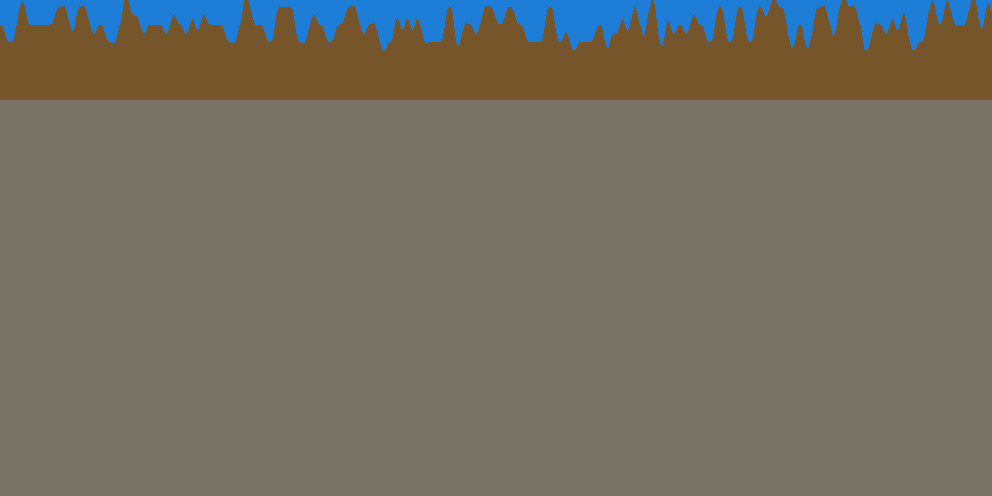
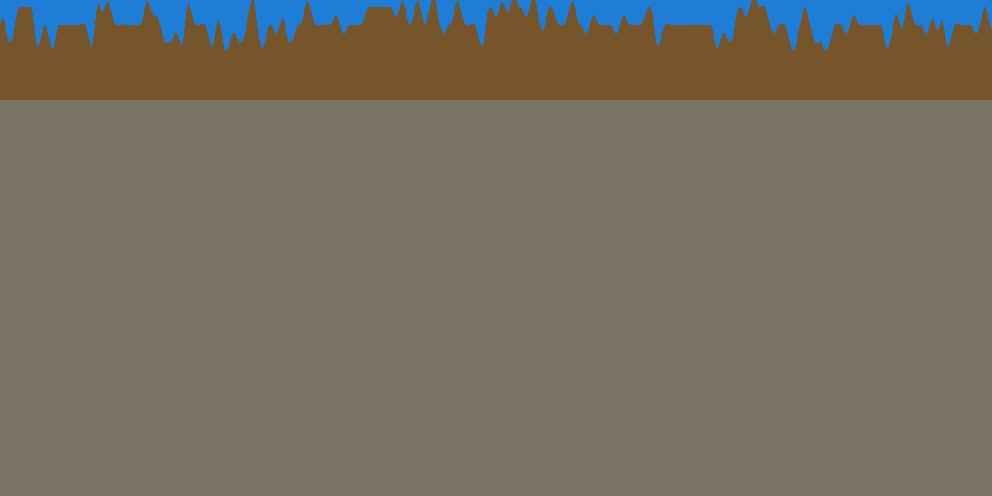
added world space mouse coordinates

Changed region(s): [[0.0, 0.0, 1.0, 0.0907]]

diff --git a/src/resources.rs b/src/resources.rs
@@ -2,7 +2,7 @@ use bevy_ecs::system::Resource;
 use slab::Slab;
 use winit::{dpi::PhysicalPosition, event::{VirtualKeyCode, ElementState}};
 
-use crate::prefabs::Prefab;
+use crate::{prefabs::Prefab, state::State, camera::Camera};
 #[derive(Resource)]
 pub struct UpdateInstance {
     pub queue: wgpu::Queue,
@@ -11,7 +11,8 @@ pub struct UpdateInstance {
 #[derive(Resource)]
 pub struct WindowEvents {
     pub keys_pressed: Vec<(VirtualKeyCode, ElementState)>,
-    pub mouse_pos: PhysicalPosition<f32>,
+    pub screen_mouse_pos: PhysicalPosition<f32>,
+    pub world_mouse_pos: PhysicalPosition<f32>,
     pub left_mouse: MouseClickType,
     pub right_mouse: MouseClickType,
     pub middle_mouse: MouseClickType,
@@ -68,6 +69,14 @@ impl WindowEvents {
             MouseClickType::Released => self.left_mouse = MouseClickType::NotHeld,
             _ => {}
         }
+    }
+    pub fn update_mouse_pos(&mut self, normalized_mouse_pos: PhysicalPosition<f32>, camera_transform: &mut Camera){
+        self.screen_mouse_pos = normalized_mouse_pos;
+        self.world_mouse_pos = PhysicalPosition::new(normalized_mouse_pos.x + camera_transform.position.x, normalized_mouse_pos.y + camera_transform.position.y);
+    }
+    pub fn update_mouse_pos_with_cam(&mut self, camera_transform: &mut Camera){
+        let normalized_mouse_pos = self.screen_mouse_pos;
+        self.world_mouse_pos = PhysicalPosition::new(normalized_mouse_pos.x + camera_transform.position.x, normalized_mouse_pos.y + camera_transform.position.y);
     }
 }
 #[derive(Resource)]

diff --git a/src/collision.rs b/src/collision.rs
@@ -3,6 +3,8 @@ use winit::dpi::PhysicalPosition;
 
 use bevy_ecs::prelude::*;
 
+use crate::prelude::Instance;
+
 #[derive(Component)]
 pub struct Box2D {
     x_max: f32,
@@ -21,12 +23,14 @@ impl Box2D {
             enabled: true
         }
     }
-    pub fn check_collision(&self, pos: &PhysicalPosition<f32>) -> bool {
-        let x = pos.x;
-        let y = pos.y;
+    pub fn check_collision(&self, pos: &PhysicalPosition<f32>, instance: &Instance) -> bool {
+        let x = pos.x + instance.position.x;
+        let y = pos.y + instance.position.y;
+        println!("max: {}, {}", self.x_max, self.y_max);
+        println!("min: {}, {}", self.x_min, self.y_min);
+        println!("{}, {}", x, y);
         if self.enabled{
             if x < self.x_max && x > self.x_min && y < self.y_max && y > self.y_min {
-                println!("collision");
                 return true;
             }
         }
@@ -57,7 +61,6 @@ impl Circle {
         let dist_y = (y - self.center_y).powi(2);
         let dist = (dist_x + dist_y).sqrt();
         if self.enabled && dist < self.radius {
-            println!("collision");
             return true;
         }
         return false;

diff --git a/src/camera.rs b/src/camera.rs
@@ -3,6 +3,7 @@ use instant::Duration;
 use wgpu::util::DeviceExt;
 use wgpu::{Device, SurfaceConfiguration, Buffer, BindGroupLayout, BindGroup};
 
+use crate::resources::WindowEvents;
 use crate::structs::CameraController;
 use crate::state::State;
 
@@ -93,6 +94,8 @@ pub fn default_cam(state: &mut State, dt: Duration) {
     let mut camera = &mut state.camera.camera_transform;
     let controller = &mut state.camera.camera_controller;
     // Move left/right and up/down
-    camera.position.x -= (controller.amount_right - controller.amount_left) * controller.speed * dt;
-    camera.position.y -= (controller.amount_up - controller.amount_down) * controller.speed * dt;
+    camera.position.x += (controller.amount_right - controller.amount_left) * controller.speed * dt;
+    camera.position.y += (controller.amount_up - controller.amount_down) * controller.speed * dt;
+    let mut mouse_pos = state.world.get_resource_mut::<WindowEvents>().unwrap();
+    mouse_pos.update_mouse_pos_with_cam(&mut camera);
 }

diff --git a/src/state.rs b/src/state.rs
@@ -131,7 +131,7 @@ impl State {
             prefab_slab: Slab::new(),
         });
         world.insert_resource(DeltaTime { dt: Duration::ZERO });
-        world.insert_resource(WindowEvents { keys_pressed: vec![], mouse_pos: PhysicalPosition { x: 0.0, y: 0.0 }, left_mouse: MouseClickType::NotHeld, right_mouse: MouseClickType::NotHeld, middle_mouse: MouseClickType::NotHeld });
+        world.insert_resource(WindowEvents { keys_pressed: vec![], screen_mouse_pos: PhysicalPosition { x: 0.0, y: 0.0 }, world_mouse_pos: PhysicalPosition { x: 0.0, y: 0.0 },left_mouse: MouseClickType::NotHeld, right_mouse: MouseClickType::NotHeld, middle_mouse: MouseClickType::NotHeld });
         let schedule = Schedule::default();
         (
             

diff --git a/src/tile_game/ui.rs b/src/tile_game/ui.rs
@@ -24,8 +24,8 @@ pub async fn gen_new_world_btn(state: &mut State) {
     state.schedule.add_systems(check_collisions);
 }
 fn check_collisions(query: Query<(&Instance, &Box2D)>, window_events: Res<WindowEvents>) {
-    for (_instance, collider) in &query {
-        if collider.check_collision(&window_events.mouse_pos) && window_events.left_clicked() {
+    for (instance, collider) in &query {
+        if collider.check_collision(&window_events.screen_mouse_pos, instance) && window_events.left_clicked() {
             println!("doesnt work because mouse coordinates do not get affected by aspect ratio");
             let mut world = gen(1000, 500, rand::thread_rng().gen_range(0..100000));
             world.save_to_image("output.png");

diff --git a/src/event.rs b/src/event.rs
@@ -38,7 +38,7 @@ pub fn run_event_loop(
                     } => *control_flow = ControlFlow::Exit,
                     WindowEvent::CursorMoved { position, .. } => {
                         let mut mouse_pos = state.world.get_resource_mut::<WindowEvents>().unwrap();
-                        mouse_pos.mouse_pos = state.window.normalize_position(position);
+                        mouse_pos.update_mouse_pos(state.window.normalize_position(position), &mut state.camera.camera_transform);
                     }
                     WindowEvent::Resized(physical_size) => {
                         state.resize(*physical_size);

diff --git a/src/tile_game/terrain_passes.rs b/src/tile_game/terrain_passes.rs
@@ -6,7 +6,6 @@ pub fn dirt_pass(world: &mut World, perlin: Perlin) {
     let dirt_variance = 50.;
     for col in 0..world.world_width {
         let val = ((perlin.get([(col as f64 + 0.5)/10.,1.5])+1.)/2. * dirt_variance) as usize;
-        println!("{}",val);
         for row in 0..world.world_height {
             let block = world.get_block(row, col).unwrap();
             if row < val{
